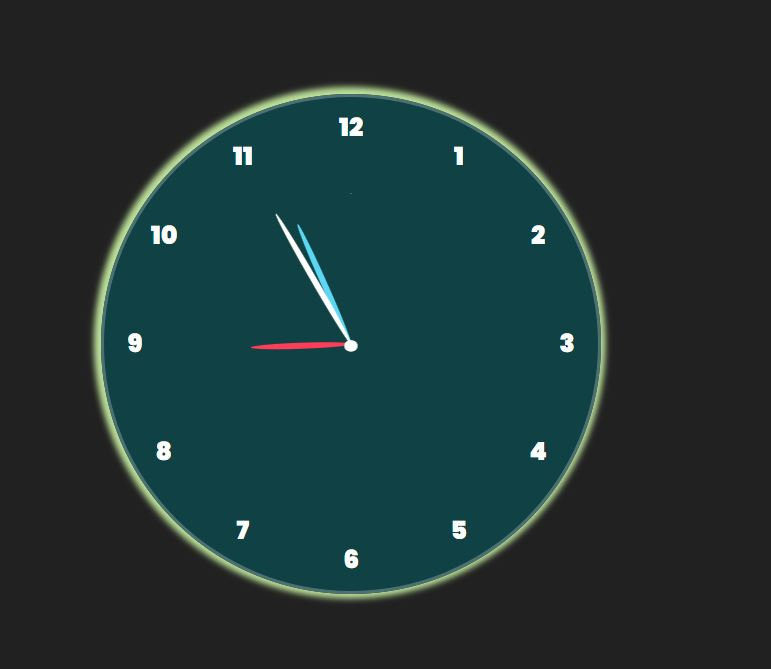
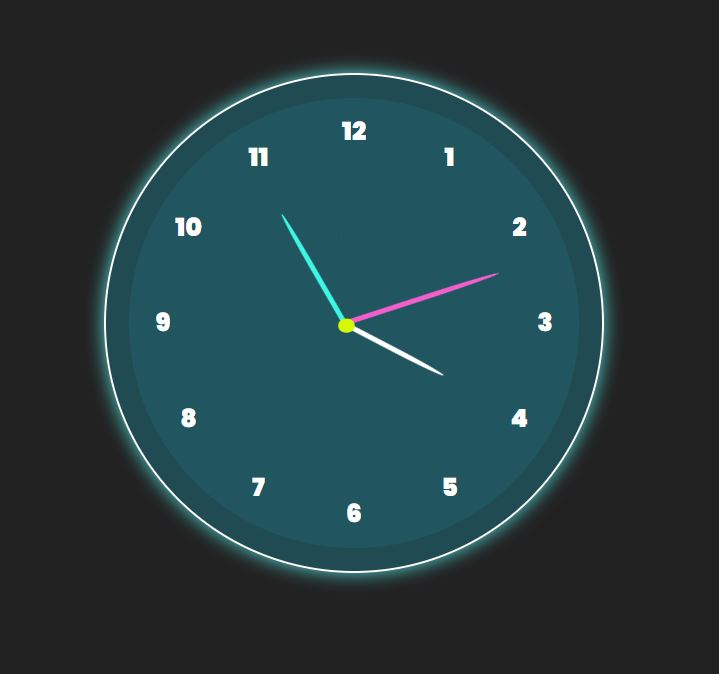
BeautyFy Clock UI and change the color in dail

diff --git a/Clock Design/clock.css b/Clock Design/clock.css
@@ -7,11 +7,12 @@
   font-family: 'Poppins', sans-serif;
   font-weight: 900;
   color: #ffffff;
-  
+   
 }
 
 body{
-  min-height: 100vh;
+  height: 100vh;
+  width: 100%;
   display: flex;
   justify-content: center;
   align-items: center;
@@ -20,56 +21,123 @@ body{
 
 .container{
   position: relative;
-}
-
-.clock{
   width: 400px;
-  height: 400px;
-  border-radius: 50%;
-  background: transparent;
-  background-color: rgba(15, 68, 71, 0.929);
-  border: 3px solid rgba(255,255, 255,0.25);
-  box-shadow: -1px -1px 5px 5px rgba(205, 245, 166, 0.9);
-  display: flex;
-  justify-content: center;
-  align-items: center;
- 
-  
+   height: 400px;
+   background-color: #205a64bc;
+   border-radius: 50%;
+   border: 2px solid white;
+   box-shadow: 0px 0px 15px  rgba(85, 240, 240, 0.9);
+   display: flex;
+   justify-content: center;
+   align-items: center;
 }
-
+.inner-Dial{
+  position: relative;
+  width: 360px;
+   height: 360px;
+   background-color: #205a64bc;
+   border-radius: 50%;
+   display: flex;
+   justify-content: center;
+   align-items: center;
+}
 .clock span{
   position: absolute;
   transform: rotate(calc(30deg * var(--i)));
   inset: 12px;
   text-align: center;
+  
+  
+}
+.clock span b{
+ transform: rotate(calc(-30deg * var(--i)));
+ /* display: inline-block; */
+ display: flex; 
+ justify-content: center;
+ align-items: center;
+ font-size: 20px;
 }
 
-.clock span b{
-  transform: rotate(calc(-30deg * var(--i)));
-  display: inline-block;
-  font-size: 20px;
+.clock{
+  display: flex;
+  justify-content: center;
+  align-items: center;
 }
 
 .centre{
-  position: absolute;
-  top: 19.6rem;
-  font-size: 40px;
- 
+  position: relative;
+  font-size: 50px;
+  bottom: 10px;
+  right: 6px;
+  color: #d5f905;
+
 }
 
 .hand{
-  position: absolute;
   display: flex;
   justify-content: center;
   align-items: flex-end;
 }
+
 .hand i{
   position: absolute;
-  background-color: var(--clr);
-  width: 5px;
+  width: 4px;
   height: var(--h);
-  border-radius: 50%;
+  background-color: var(--clr);
+  border-top-right-radius: 50%;
+  border-top-left-radius: 50%;
 }
+
+
+
+
+
+
+
+
+
+
+
+
+
+
+
+
+
+
+
+
+
+
+
+
+
+ 
+ 
+
+
+
+
+
+
+
+
+
+
+
+
+
+
+
+
+
+
+
+
+
+
+
+
 
 
 

diff --git a/Clock Design/index.html b/Clock Design/index.html
@@ -8,29 +8,34 @@
   </head>
   <body> 
     <div class="container">
+      <div class="inner-Dial">
       <div class="clock">
-        
-        <div style="--clr:#ff3d58; --h:80px"  id="hour" class="hand"><i></i></div>
-        <div style="--clr:#5cd7f3; --h:105px" id="min" class="hand"><i></i></div>
-        <div style="--clr:#ffffff; --h:120px"  id="sec" class="hand"><i></i></div>
+ <!-- min and hr hand -->
+         <div style="--clr:#ffffff; --h:90px" class="hand" id="hour"><i></i></div>
+         <div style="--clr:#3ff5e3; --h:100px" class="hand" id="min"><i></i></div>
+         <div style="--clr:#f45ecc; --h:130px" class="hand" id="sec"><i></i></div>
 
-        <span style = "--i :1;"><b>1</b></span>
-        <span style = "--i :2;"><b>2</b></span>
-        <span style = "--i :3;"><b>3</b></span>
-        <span style = "--i :4"><b>4</b></span>
-        <span style = "--i :5;"><b>5</b></span>
-        <span style = "--i :6;"><b>6</b></span>
-        <span style = "--i :7;"><b>7</b></span>
-        <span style = "--i :8;"><b>8</b></span>
-        <span style = "--i :9;"><b>9</b></span>
-        <span style = "--i :10;"><b>10</b></span>
-        <span style = "--i :11;"><b>11</b></span>
-        <span style = "--i :12;"><b>12</b></span>
-        </div>
+        <span style="--i:1;"><b>1</b></span>
+        <span style="--i:2;"><b>2</b></span>
+        <span style="--i:3;"><b>3</b></span>
+        <span style="--i:4;"><b>4</b></span>
+        <span style="--i:5;"><b>5</b></span>
+        <span style="--i:6;"><b>6</b></span>
+        <span style="--i:7;"><b>7</b></span>
+        <span style="--i:8;"><b>8</b></span>
+        <span style="--i:9;"><b>9</b></span>
+        <span style="--i:10;"><b>10</b></span>
+        <span style="--i:11;"><b>11</b></span>
+        <span style="--i:12;"><b>12</b></span>
+         <!-- centre -->
+         <div class="centre"> .</div>
+         </div>
+         </div>
       </div>
-
-      <div class="centre">.</div>
     </div>
+  
+
+     
      
     <script src="clock.js"></script>
   </body>

diff --git a/Clock Design/clock.js b/Clock Design/clock.js
@@ -4,23 +4,24 @@ let hr = document.getElementById('hour');
 let min = document.getElementById('min');
 let sec = document.getElementById('sec');
 
-
 function displayTime(){
   let date = new Date();
-  
 
   let hh = date.getHours();
   let mm = date.getMinutes();
   let ss = date.getSeconds();
 
-  let hRoatation = 30 *hh + mm/2;
-  let mRoatation = 6*mm;
-  let sRoatation = 6*ss;
+    let hRoatation = 30 * hh + mm / 2;
+    let mRoatation = 6 * mm;
+    let sRoatation = 6 * ss;
 
   hr.style.transform = `rotate(${hRoatation}deg)`;
   min.style.transform = `rotate(${mRoatation}deg)`;
   sec.style.transform = `rotate(${sRoatation}deg)`;
-
-
 }
- setInterval(displayTime ,1000);
+setInterval(displayTime, 1000);
+
+
+
+
+
